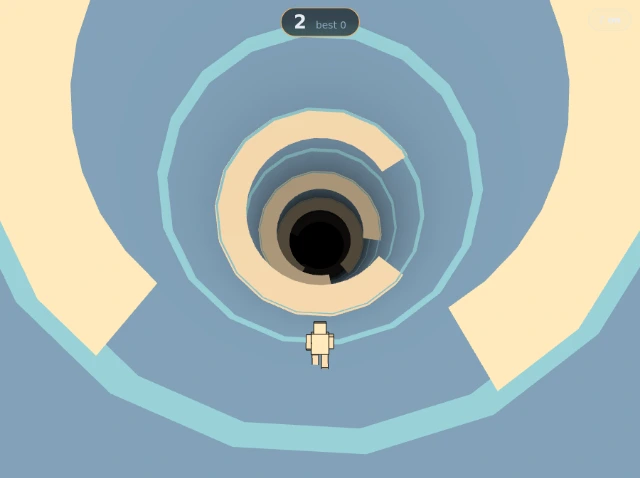
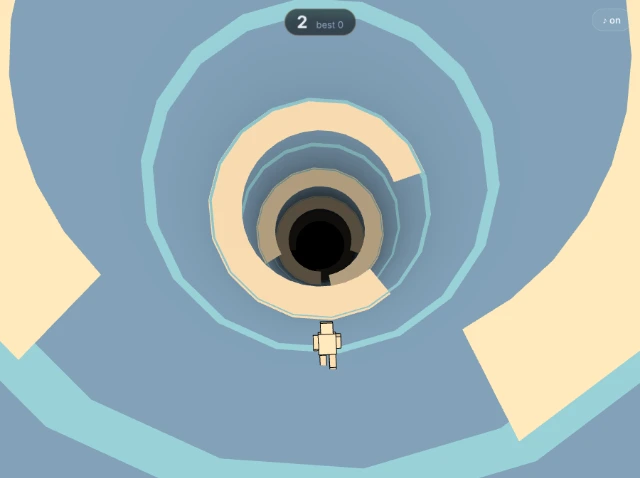
feat(tube-runner): steering moves the runner, not the tube (#145)
The camera sat at the runner's angle every frame, which pinned the
runner to the middle of the screen: steering could only show as the tube
turning. It now trails. The runner swings toward the side held, up to
0.44 of the half-width, and the camera eases round after them and
re-centres within about a second of release. A camera that never
turned was the alternative, and it inverts left and right at the top of
the tube. ROTATE_SPEED, collision and the fairness bound are untouched;
this moves the camera, not the runner.

The lag is capped at 0.25 rad. It was 0.45 first, which put the runner
at 0.78 of the half-width, under the thumb holding that side.

Trailing exposed an older fault the locked camera had hidden: holding
the left of the screen sent the runner to the right. A turning tube
reads either way, so nobody could tell. The input now uses STEER_LEFT /
STEER_RIGHT from game.ts, which record the handedness once; the QA
helpers that steer by angle are unaffected.

The touch suite reads the runner on screen through a read-only
runnerScreen() on the QA handle. Every angle check passed against the
original complaint, so the camera locked again keeps them all green and
turns only the new on-screen checks red (x 0.00); the old mapping turns
them red the other way (left +0.45, right -0.44). Two existing checks
that hard-coded left as a negative turn now compare against the
direction a left-side hold actually turned.
[…]

diff --git a/tube-runner/game.ts b/tube-runner/game.ts
@@ -32,6 +32,7 @@ import {
   RING_SPACING,
   ROTATE_SPEED,
   TUBE_RADIUS,
+  angleDelta,
   clearsRing,
   generateGaps,
   nextGap,
@@ -125,6 +126,48 @@ const CAM_LOOK_AHEAD = 13
 const CAM_LOOK_RADIUS = CAM_RADIUS * 0.35
 
 /**
+ * How the camera follows the runner round the tube (#145).
+ *
+ * It used to sit at the runner's own angle every frame, so the runner was
+ * pinned bottom-centre and the only thing that could move when you steered
+ * was the tube — players read pressing left as turning the tube. The input
+ * always moved the runner; the camera hid it.
+ *
+ * Now the camera trails: the runner moves across the screen the moment you
+ * steer, and the camera eases round after them, re-centring when you let go.
+ * A camera that never turned was the other choice, and it fails at the top of
+ * the tube, where the runner is upside down and left on the screen is right on
+ * the stick.
+ *
+ * `CAM_FOLLOW` is the catch-up rate, per second. `CAM_MAX_LAG` caps how far
+ * the runner may get ahead, in radians round the tube, so a long hold cannot
+ * carry them off the screen. Neither touches `ROTATE_SPEED`, which the
+ * fairness bound in track.ts is derived from — this moves the camera, not the
+ * runner. Under reduced motion the camera stays locked, as it always was.
+ *
+ * Measured on a phone viewport, as the runner's x in normalised device
+ * coordinates: a held turn settles at +-0.44, and a release re-centres to
+ * 0.06 within 0.2 s. The cap was 0.45 rad first, which put the runner at
+ * +-0.78 — at the edge of the screen, under the thumb holding that side.
+ */
+const CAM_FOLLOW = 5
+const CAM_MAX_LAG = 0.25
+
+/**
+ * The `steer()` directions that move the runner left and right *on screen*.
+ *
+ * Positive steering increases the runner's angle, and with the camera behind
+ * them and its up toward the axis, an increasing angle carries them to the
+ * left of the screen. The input layer had it the other way round — the left
+ * of the screen and the left arrow sent -1 — and nobody could tell while the
+ * camera pinned the runner to the middle: a turning tube reads either way.
+ * Measured once the camera trailed (#145): holding the left half put the
+ * runner at x = +0.78 of the screen's half-width, on the right.
+ */
+export const STEER_LEFT = 1 as const
+export const STEER_RIGHT = -1 as const
+
+/**
  * The height the runner is modelled at, before scaling.
  *
  * The parts below are laid out at a comfortable size to read and edit; the
@@ -210,6 +253,12 @@ export interface TubeGame {
   press(): void
   /** Hold a direction: -1, 1, or 0 for neither. */
   steer(direction: -1 | 0 | 1): void
+  /**
+   * Where the runner is on the screen, in normalised device coordinates:
+   * x and y in -1..1, centre 0. Read-only, for the check that steering moves
+   * the runner on screen rather than turning the tube (#145).
+   */
+  runnerScreen(): { x: number; y: number }
 }
 
 interface Ring {
@@ -436,6 +485,8 @@ const camera = new THREE.PerspectiveCamera(62, 1, 0.1, FOG_FAR + 8)
   let screen: Screen = 'title'
   let playerAngle = 0
   let steering: -1 | 0 | 1 = 0
+  /** Where the camera sits round the tube; trails `playerAngle` (#145). */
+  let camAngle = 0
   let playerZ = 0
   let cleared = 0
   let spawned = 0
@@ -474,6 +525,7 @@ const camera = new THREE.PerspectiveCamera(62, 1, 0.1, FOG_FAR + 8)
 
   function reset() {
     playerAngle = 0
+    camAngle = 0
     steering = 0
     playerZ = 0
     cleared = 0
@@ -603,8 +655,15 @@ const camera = new THREE.PerspectiveCamera(62, 1, 0.1, FOG_FAR + 8)
     const reduced = prefersReducedMotion()
     poseRunner(runPhase, reduced)
 
-    const radialX = Math.cos(playerAngle)
-    const radialY = Math.sin(playerAngle)
+    if (reduced) {
+      camAngle = playerAngle
+    } else {
+      camAngle += angleDelta(camAngle, playerAngle) * Math.min(1, dt * CAM_FOLLOW)
+      const lag = angleDelta(camAngle, playerAngle)
+      if (Math.abs(lag) > CAM_MAX_LAG) camAngle = playerAngle - Math.sign(lag) * CAM_MAX_LAG
+    }
+    const radialX = Math.cos(camAngle)
+    const radialY = Math.sin(camAngle)
     // Behind the runner and inward of them, so they sit low in the frame with
     // the tube opening out ahead. `up` points at the axis, which is what makes
     // the player's side of the tube read as the floor.
@@ -657,6 +716,11 @@ const camera = new THREE.PerspectiveCamera(62, 1, 0.1, FOG_FAR + 8)
     steer(direction) {
       if (direction !== 0) ensureCtx()
       steering = direction
+    },
+    runnerScreen() {
+      camera.updateMatrixWorld()
+      const p = runner.position.clone().project(camera)
+      return { x: p.x, y: p.y }
     },
   }
 }

diff --git a/tube-runner/main.ts b/tube-runner/main.ts
@@ -19,7 +19,7 @@
 // check: sliding a thumb from one side to the other reverses the turn without
 // ever passing through "not turning", because both contacts are tracked and
 // the newest side wins.
-import { createGame } from './game'
+import { createGame, STEER_LEFT, STEER_RIGHT } from './game'
 import { createHud } from './hud'
 import { exposeForQA } from '../shared/devtools'
 import { preventZoomGestures } from '../shared/noZoom'
@@ -43,10 +43,14 @@ createHud(game, {
 
 const canvas = game.stage.renderer.domElement
 
-/** Which side of the canvas a point is on. */
+/**
+ * Which way a point on the canvas steers: the left half toward the left of
+ * the screen, the right half toward the right. See `STEER_LEFT` for why that
+ * is not simply -1 and 1.
+ */
 const sideOf = (clientX: number): -1 | 1 => {
   const rect = canvas.getBoundingClientRect()
-  return clientX - rect.left < rect.width / 2 ? -1 : 1
+  return clientX - rect.left < rect.width / 2 ? STEER_LEFT : STEER_RIGHT
 }
 
 /**
@@ -123,7 +127,7 @@ function applyKeys() {
   // Both at once cancels rather than picking a winner. A keyboard can hold two
   // arrows where a thumb cannot be on two sides at once, and drifting under
   // both would be a surprise either way.
-  game.steer(left === right ? 0 : left ? -1 : 1)
+  game.steer(left === right ? 0 : left ? STEER_LEFT : STEER_RIGHT)
 }
 
 window.addEventListener('keydown', (e) => {

diff --git a/CLAUDE.md b/CLAUDE.md
@@ -235,6 +235,18 @@ Both readers compare `COURSE_KEY` (names and pars) and ignore a best from
 another course. Any game whose levels are counted into one score has this
 shape.
 
+**Tube Runner's steering moves the runner, not the tube (#145).** The camera
+used to sit at the runner's angle every frame, which pinned them to the middle
+of the screen, so steering showed only as the tube turning. It trails now: the
+runner swings up to 0.44 of the half-width toward the side held, and the
+camera eases round after them. That exposed a second, older fault the locked
+camera had hidden — the left of the screen steered the runner *right* — so the
+input uses `STEER_LEFT` / `STEER_RIGHT` from `game.ts`, which record the
+handedness once. The touch suite reads the runner's position on the screen
+through `runnerScreen()`: every angle check passed against the original
+complaint, and only a check on what the player sees could tell. Under reduced
+motion the camera stays locked, and `qa:motion` holds it to that as a pair.
+
 **The CSP hashes an inline script, and a stale hash fails silently.** Editing
 the pre-init sizing script in any `index.html` changes its hash; the browser
 then declines to run it, nothing throws, and every functional check goes on

diff --git a/qa/motion/README.md b/qa/motion/README.md
@@ -34,6 +34,7 @@ later arrives after the decision has been made.
 | game | decoration | default | under the preference |
 | --- | --- | --- | --- |
 | tube-runner | the score pulses as a ring is cleared | 3 pulses / 9 rings | **0** / 10 rings |
+| tube-runner | the camera trails the runner through a turn (#145) | runner 0.449 of the half-width from centre | **0.000**, over the same turn |
 | tower-stacker | a landing shakes the camera | peak 0.0062 | **0.0000** |
 | windup | the steam vents emit | 2 emitters | **0** |
 | lantern-keeper | the fireflies drift | 30 of 30 moved | **0** of 30 |
@@ -88,6 +89,7 @@ the control changed the right thing.
 | Control | Result |
 | --- | --- |
 | `!prefersReducedMotion()` dropped from `tube-runner/hud.ts`'s pulse | 2 pulses under the preference |
+| the camera trailing under the preference too (`tube-runner/game.ts`, #145) | runner 0.450 of the half-width from centre |
 | `reduced ? 0 :` dropped from Tower Stacker's two `shake =` lines | peak 0.0058 |
 | the early `return` dropped from Windup's `renderVents` | 2 emitters |
 | the `if (still) continue` dropped from Lantern Keeper's fireflies | 30 of 30 moved |
